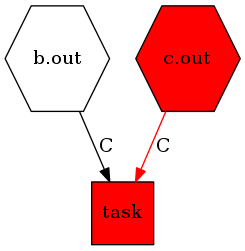
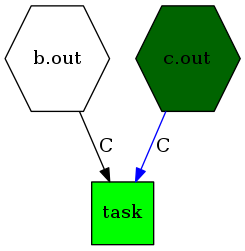
Documentation update.

Changed region(s): [[0.5429, 0.0, 1.0, 0.5578], [0.3714, 0.6135, 0.6286, 0.9761], [0.6, 0.5578, 0.6286, 0.6135]]

diff --git a/doc/source/tutorial.rst b/doc/source/tutorial.rst
@@ -154,8 +154,10 @@ near the arrow. If we run this:
 >>> pymk -g graph.png task
 
 .. image:: ./images/tutorial_phase_5_run1.png
-The red color means "this dependency accured" or "this task was runned". If we run
-this again:
+The dark green color means "this dependency accured".
+The green color means "this task was runned".
+The red color means "this task failed".
+If we run this again:
 
 >>> pymk -g graph.png task
 
@@ -266,13 +268,13 @@ and not when the task is rebuilded? We can use FileExists.
 
 >>> rm *.out
 >>> touch c.out d.out
->>> pymk task -g tutorial_phase_7_run1.png
+>>> pymk
  * Building 'secon_task'
  * Building 'task'
 
 .. image:: ./images/tutorial_phase_7_run1.png
 >>> touch d.out
->>> pymk task -g tutorial_phase_7_run2.png
+>>> pymk
  * Building 'secon_task'
  * 'task' is up to date
 

diff --git a/doc/source/api/graph.rst b/doc/source/api/graph.rst
@@ -3,6 +3,19 @@
 ==========
 .. module:: graph
 
+5.1.1 color description
+=======================
+.. glossary::
+
+    dark green
+        this dependency accured
+    green
+        this task was runned
+    red
+        this task failed
+
+5.1.2 api reference
+===================
 .. function:: run_dot(pipe, filename)
 
     Run dot program, which transfers dot language to graph image.
